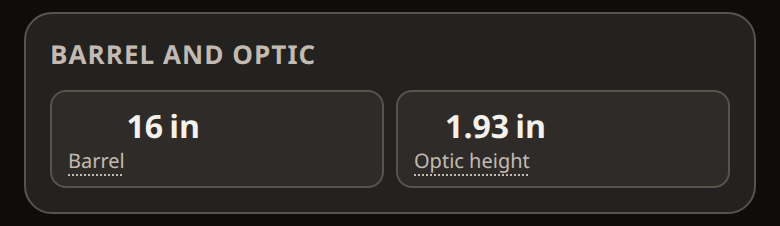
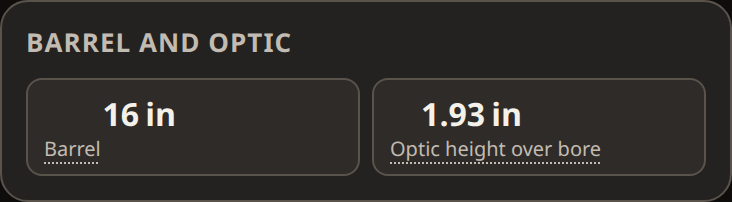
Name the optic field Optic height over bore, version 0.19.1.

diff --git a/index.html b/index.html
@@ -70,7 +70,7 @@
               <input id="sight" inputmode="decimal" autocomplete="off" aria-label="Optic height over bore">
               <span id="sight-unit"></span>
             </span>
-            <button type="button" class="spec-name tip-title" data-tip="How high the sight sits above the center of the bore. The bullet has to climb that height to meet the line of sight at the zero. Typical heights, not exact: AR absolute cowitness about 1.5 inches, lower 1/3 about 1.9 inches, a pistol red dot about 0.8 inches, an AK side-rail optic about 2.5 inches." aria-expanded="false">Optic height</button>
+            <button type="button" class="spec-name tip-title" data-tip="How high the sight sits above the center of the bore. The bullet has to climb that height to meet the line of sight at the zero. Typical heights, not exact: AR absolute cowitness about 1.5 inches, lower 1/3 about 1.9 inches, a pistol red dot about 0.8 inches, an AK side-rail optic about 2.5 inches." aria-expanded="false">Optic height over bore</button>
           </label>
         </div>
       </section>

diff --git a/js/version.js b/js/version.js
@@ -1,2 +1,2 @@
 /** The only copy of the app version. Bump it before any commit that changes behavior. */
-export const VERSION = "0.19.0";
+export const VERSION = "0.19.1";

diff --git a/README.md b/README.md
@@ -8,13 +8,13 @@ A fresh visit opens on the Tula steel-case .223 load, with that caliber expanded
 
 ## Barrel, optic, and the zero
 
-Barrel length and optic height are the two things the path needs from the gun.
+Barrel length and optic height over bore are the two things the path needs from the gun.
 
-![Barrel length and optic height](docs/images/barrel-optic.png)
+![Barrel length and optic height over bore](docs/images/barrel-optic.png)
 
 Barrel length is how long the barrel is. Catalog muzzle speed is the maker’s figure for that load’s reference barrel. Each inch longer or shorter shifts that speed by 25 feet per second. A longer barrel leaves faster, so the bullet spends less time falling and the path changes everywhere you read it. If you type a muzzle speed, that typed speed replaces the shift.
 
-Optic height is how high the sight sits above the center of the bore. The bullet has to climb that distance to meet the line of sight at the zero. A higher sight means more climb, so the near misses and the shape of the arc both move.
+Optic height over bore is how high the sight sits above the center of the bore. The bullet has to climb that distance to meet the line of sight at the zero. A higher sight means more climb, so the near misses and the shape of the arc both move.
 
 ![Desired zero, zero target distance, and the hit-paper figure](docs/images/zero.png)
 
